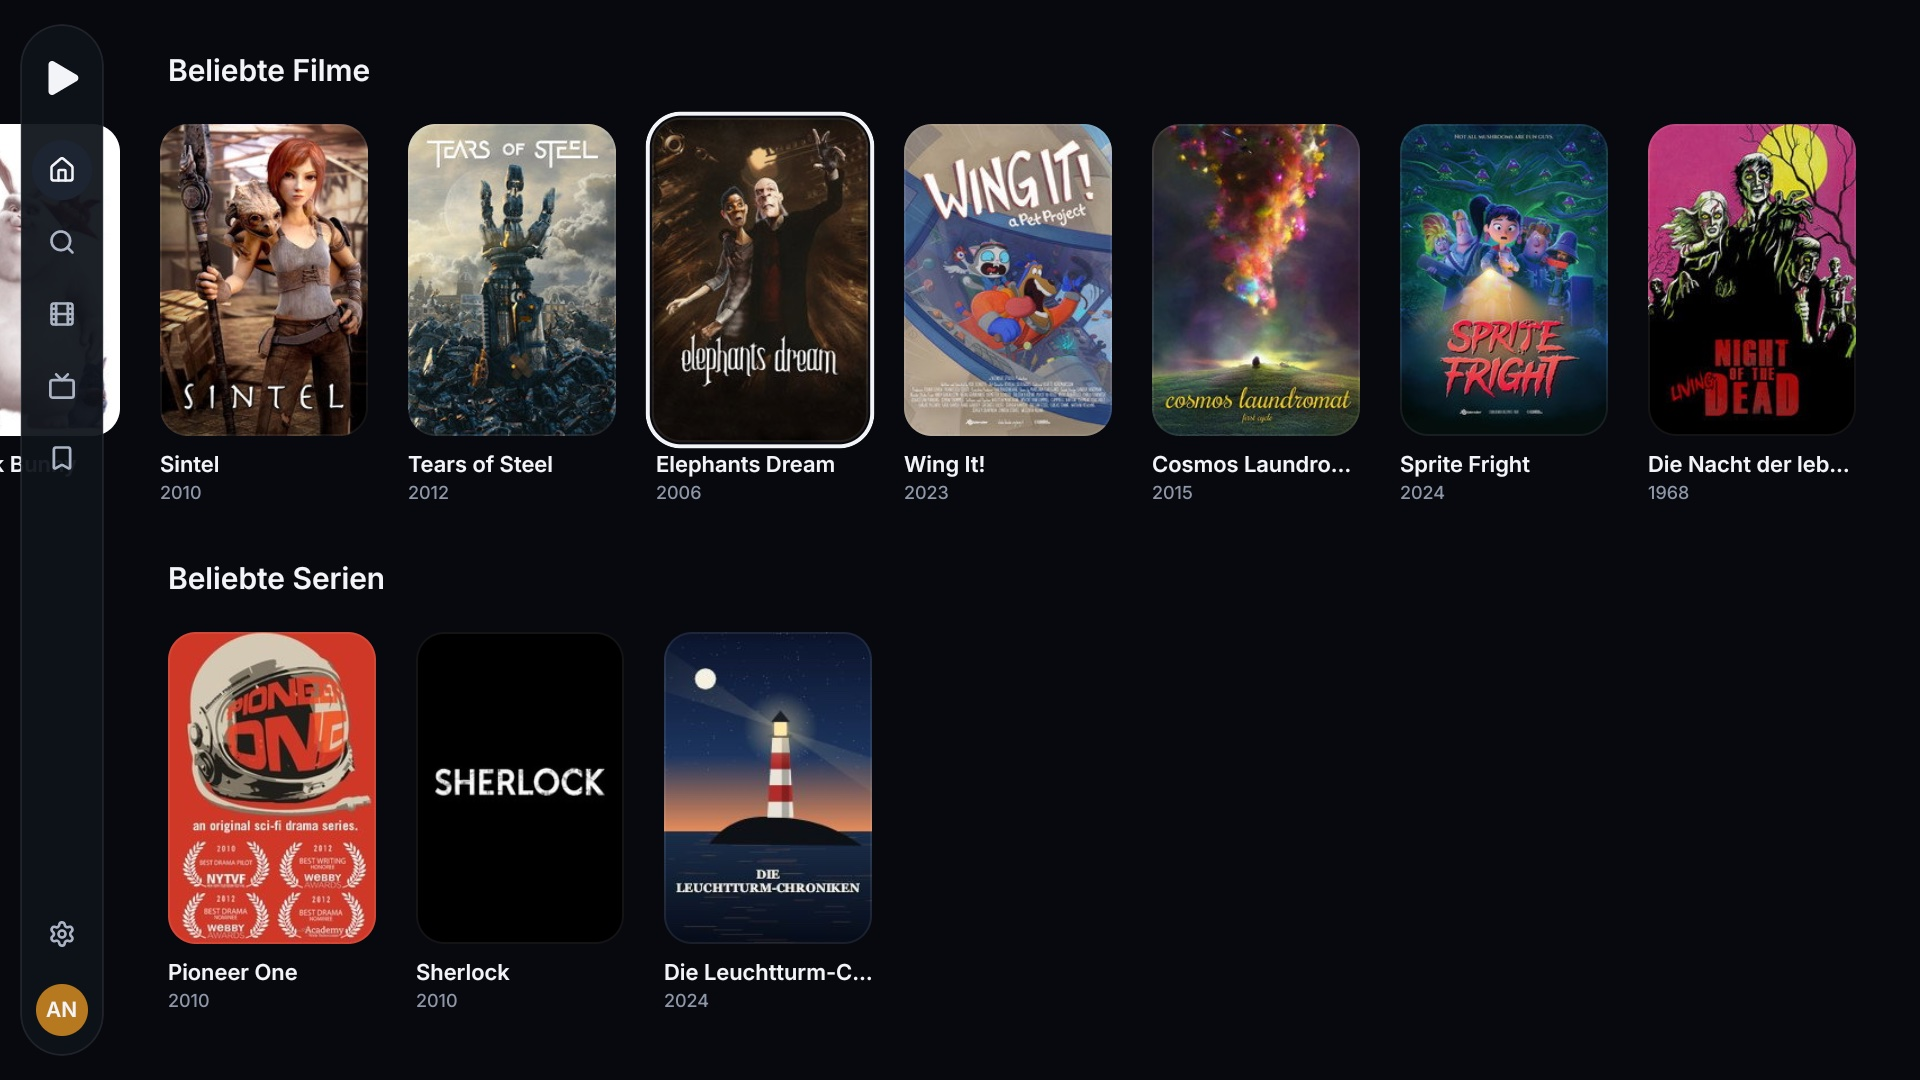
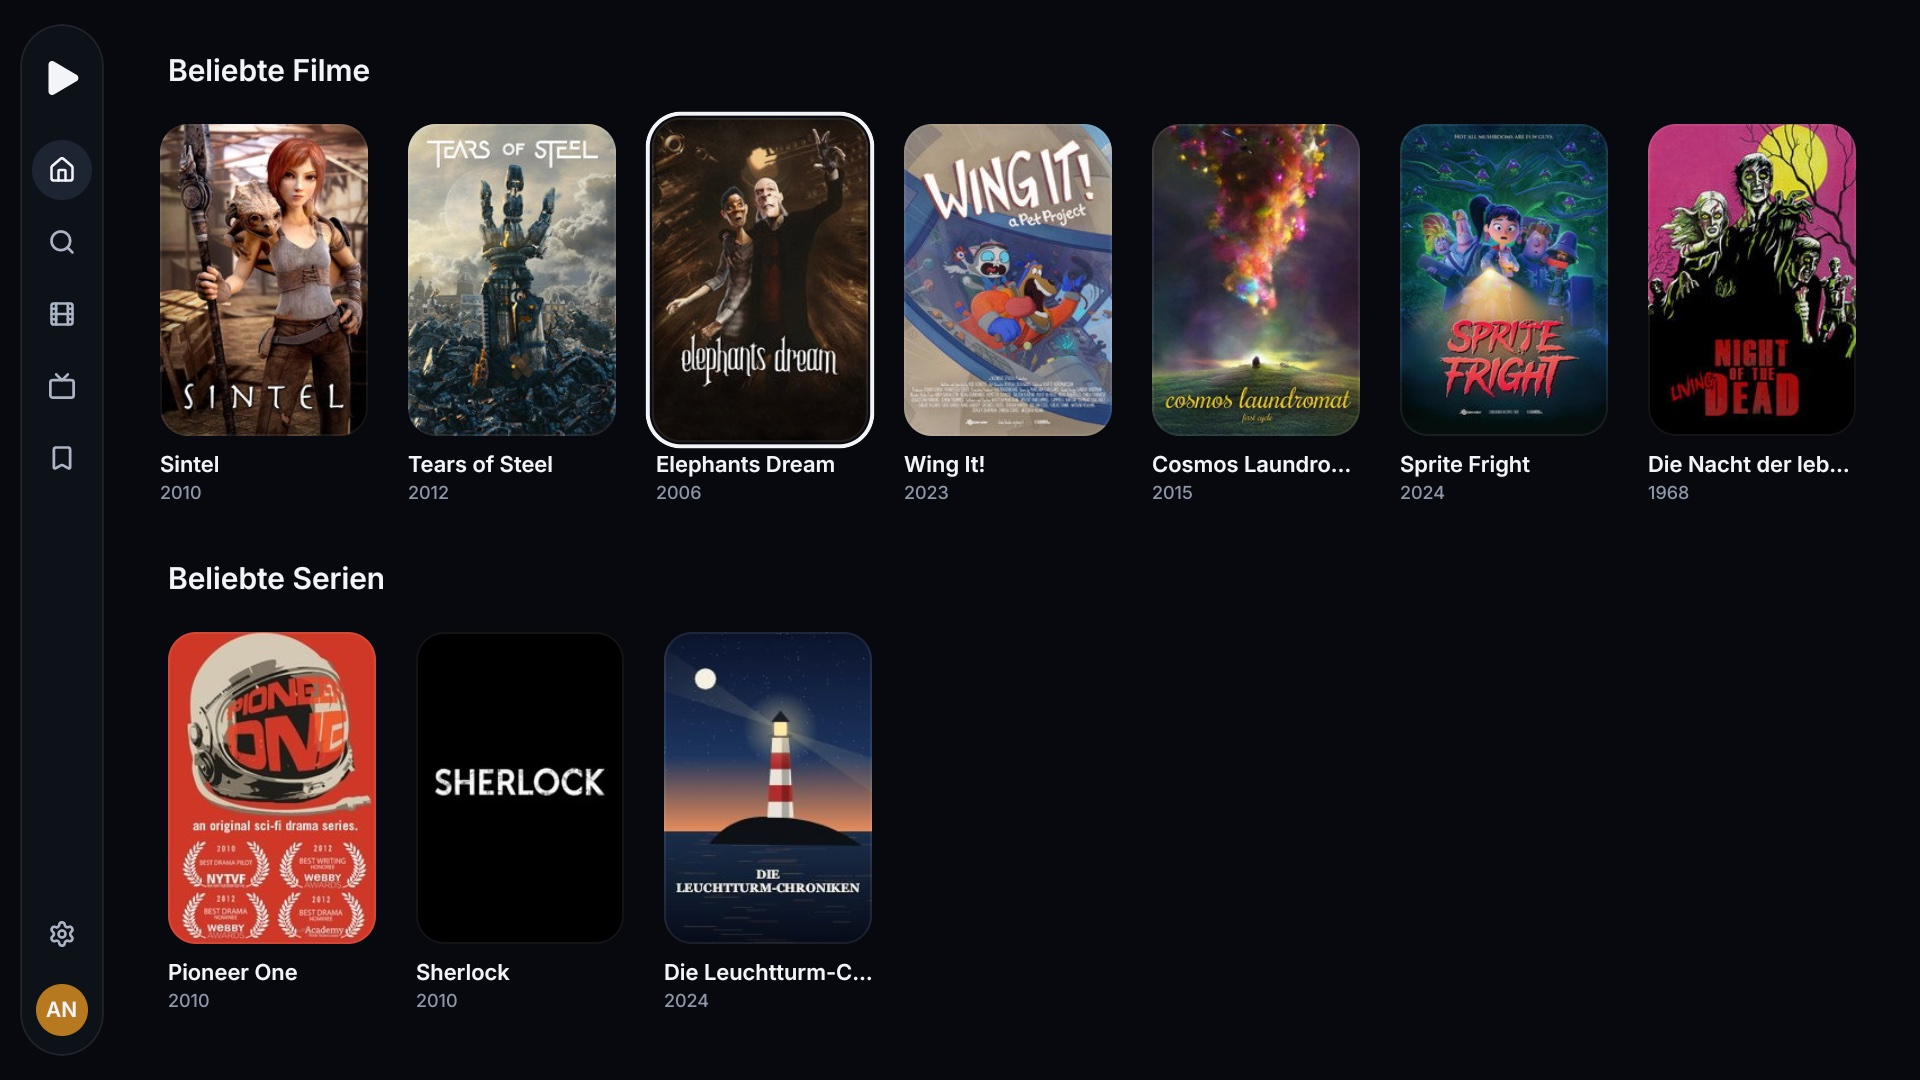
fix(client): TV rows end at the rail, cards scrolled out no longer show through it
Shelf rows were full-bleed under the translucent rail (full and lite mode). Under the
rail the list now starts one card gap (at most the focus room) before the first card,
so its own clip hides scrolled-out cards; positions, focus room and the peeking card
on the right stay as they were.

Changed region(s): [[0.0, 0.1222, 0.0625, 0.4278]]

diff --git a/client/src/components/media/shelf.tsx b/client/src/components/media/shelf.tsx
@@ -79,6 +79,13 @@ export function Shelf<T>({
     useFocusGlowRoom() - design.focus.ringOffset - design.focus.ringWidth - design.px(4)
   );
   const glowRoom = lite ? 0 : fullGlowRoom;
+  // TV under the rail: the list starts one card gap (at most the focus room) before the first card, so a card scrolled out never shows through the rail.
+  const sideRoom =
+    focusClearance(design.focus, itemWidth, lite ? LITE_CARD_SCALE : design.focus.cardScale) +
+    glowRoom;
+  const clip =
+    design.isTV && design.inset > 0 ? Math.max(0, gutter - Math.min(sideRoom, cardGap)) : 0;
+  const listStart = gutter - clip;
   const headerGap = shell.large ? shell.s(SHELL.row.headerGap) : 0;
   const listRef = useRef<FlatList<T>>(null);
   const offset = useRef(0);
@@ -220,15 +227,15 @@ export function Shelf<T>({
             );
           }}
           scrollEventThrottle={100}
-          style={{ marginVertical: -glowRoom }}
+          style={{ marginVertical: -glowRoom, marginLeft: clip }}
           contentContainerStyle={{
-            paddingLeft: gutter,
+            paddingLeft: listStart,
             paddingRight: gutterEnd,
             paddingVertical: focusRoom + glowRoom,
           }}
           getItemLayout={(_, index) => ({
             length: index < data.length - 1 ? stride : itemWidth,
-            offset: gutter + index * stride,
+            offset: listStart + index * stride,
             index,
           })}
           // No initialScrollIndex: it skips the cards before the restored one until a scroll event (F10 S4y-9).
@@ -248,7 +255,7 @@ export function Shelf<T>({
           // Reduced motion: focus moves jump the row instead of the smooth scroll.
           scrollAnimationEnabled={policy.rowScroll}
           snapToAlignment={design.isTV ? 'item' : undefined}
-          snapToItemPadding={design.isTV ? gutter : undefined}
+          snapToItemPadding={design.isTV ? listStart : undefined}
           snapToInterval={Platform.OS !== 'web' && !design.isTV ? stride : undefined}
           decelerationRate={Platform.OS !== 'web' && !design.isTV ? 'fast' : undefined}
         />

diff --git a/client/src/components/__tests__/tv-focus.test.tsx b/client/src/components/__tests__/tv-focus.test.tsx
@@ -1,5 +1,5 @@
 import { act, fireEvent, screen } from '@testing-library/react-native';
-import { FlatList, Platform, Pressable } from 'react-native';
+import { FlatList, Platform, Pressable, StyleSheet } from 'react-native';
 import type { TestInstance } from 'test-renderer';
 
 import {
@@ -16,6 +16,7 @@ import { Shelf } from '@/components/media/shelf';
 import { ErrorState } from '@/components/states/error-state';
 import { Text } from '@/components/ui/text';
 import '@/i18n';
+import { DesignGutter } from '@/theme';
 import { renderWithProviders } from '@/../jest/render';
 
 // RN's Jest mock of the native View lacks Commands; TVFocusGuideView sends setDestinations on TV.
@@ -229,6 +230,23 @@ describe('Shelf on TV', () => {
     // The cards before the remembered one render too (initialScrollIndex would leave them blank).
     expect(restored?.props.initialScrollIndex).toBeUndefined();
     expect(screen.getByTestId('item-0')).toBeOnTheScreen();
+  });
+
+  it('under the rail the row is clipped just before the first card: cards scrolled out never show through it', async () => {
+    await renderWithProviders(
+      <DesignGutter gutter={30} inset={40}>
+        {shelf}
+      </DesignGutter>
+    );
+    const list = ancestorWith(screen.getByTestId('item-0'), 'getItemLayout');
+    const clip = StyleSheet.flatten(list?.props.style).marginLeft as number;
+    const start = list?.props.contentContainerStyle.paddingLeft as number;
+    // The first card stays at the gutter (rail inset 40 + gutter 30) with room for its lift and ring.
+    expect(clip).toBeGreaterThan(0);
+    expect(start).toBeGreaterThan(0);
+    expect(clip + start).toBe(70);
+    expect(list?.props.snapToItemPadding).toBe(start);
+    expect(list?.props.getItemLayout(null, 3).offset).toBe(start + 3 * 115.5);
   });
 
   it('renders a remembered item beyond the first batch, so focus can return to it', async () => {

diff --git a/docs/client/journal/LITE2.md b/docs/client/journal/LITE2.md
@@ -122,3 +122,17 @@ mit allen Effekten" / "Off: full Home with all effects".
 - `useFocusState()` now also returns `focused` (0/1 without animation).
 - Emulator 5562 is left with lite "An", logged in as anna on the (now stopped) 41650 Dev World; the reverse for 41600
   points back at 41600.
+
+## Follow-up: cards showing through the rail
+
+- Report (coordinator): in `tv-lite-home-row3-focus.jpg` the card scrolled past the left edge (Big Buck Bunny) was
+  drawn under the semi-transparent rail, its title fragment over the rail.
+- Cause: TV rows are full-bleed (`Shelf`'s horizontal FlatList spans the screen, `paddingLeft` = gutter incl. the
+  rail inset); the rail is translucent glass on top, so whatever scrolled left of the gutter showed through it. Not
+  lite-specific: full mode and the old lite showed the same (emulator, full mode before the fix).
+- Fix (`client/src/components/media/shelf.tsx`): on TV under the rail (`design.inset > 0`) the list gets
+  `marginLeft = gutter − min(focus room, card gap)` and the padding/`getItemLayout`/`snapToItemPadding` shrink by the
+  same amount, so the ScrollView's own clip ends just before the first card. Cards stay where they were, the first
+  card's lift/ring/glow keep their room, the peeking card on the right is unchanged. No extra views, no blur.
+- Test: `tv-focus.test.tsx` "under the rail the row is clipped just before the first card". Emulator: full and lite
+  row screenshots clean; `tv-lite-home-row3-focus.jpg` retaken. typecheck/lint clean; affected suites 39/432 passed.
